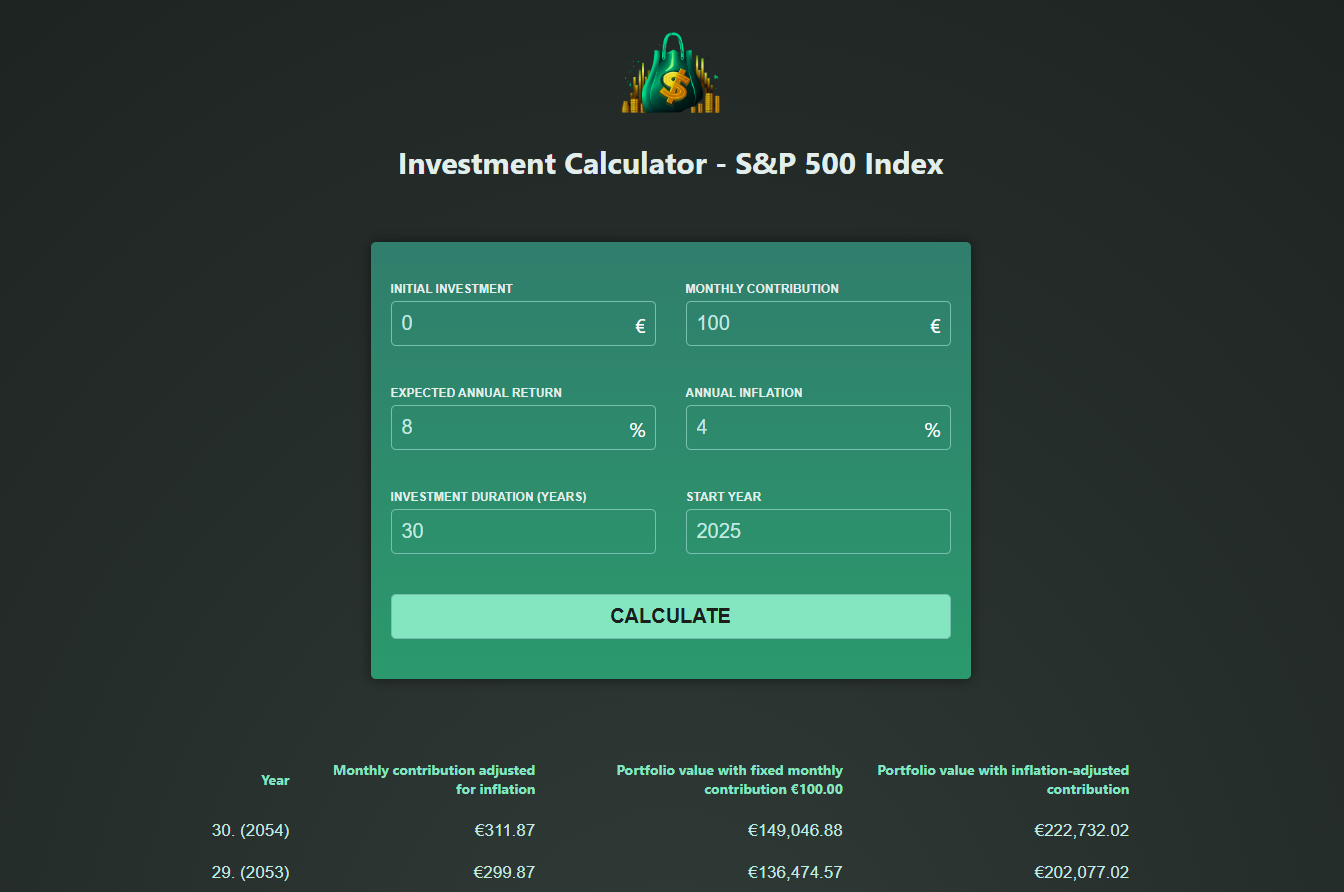
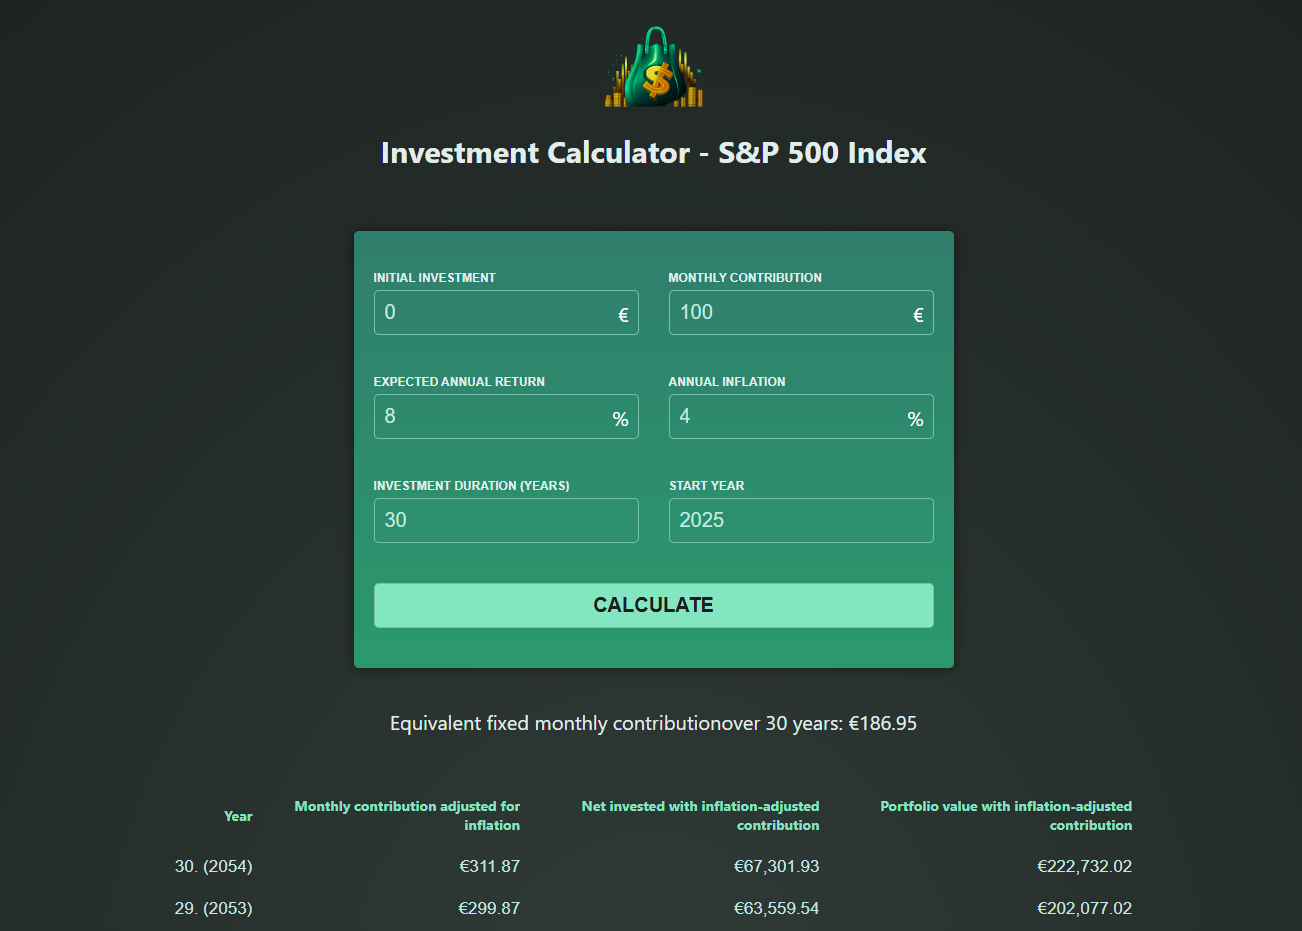
Improve investment view and mobile formatting

diff --git a/src/app/investment.service.ts b/src/app/investment.service.ts
@@ -14,6 +14,7 @@ export class InvestmentService {
     const totalMonths = duration * 12; // Celkový počet mesiacov
     let totalWithoutInflation = initialAmount + 1; // Suma bez inflácie
     let totalWithInflation = initialAmount + 1; // Suma s infláciou
+    let netInvestedWithInflation = initialAmount; // Netto vložené peniaze (s infláciou príspevku)
     let currentAnnualContribution = annualContribution * 12; // Ročný príspevok
     let currentAnnualContributionWithInflation = annualContribution * 12; // Ročný príspevok s infláciou
     const results = []; // Výsledky pre každý rok
@@ -27,6 +28,7 @@ export class InvestmentService {
       // S infláciou: mesačný príspevok sa zvyšuje o infláciu
       totalWithInflation *= (1 + monthlyRate);
       totalWithInflation += currentAnnualContributionWithInflation / 12;
+      netInvestedWithInflation += currentAnnualContributionWithInflation / 12;
 
       // Na konci každého roka vypočítame a uložíme výsledky
       if (month % 12 === 0) {
@@ -35,8 +37,10 @@ export class InvestmentService {
         // Vložíme výsledky do poľa
         results.push({
           year: year,
+          initialAmount: initialAmount,
           totalWithoutInflation: parseFloat(totalWithoutInflation.toFixed(2)), // Suma bez inflácie
           totalWithInflation: parseFloat(totalWithInflation.toFixed(2)),    // Suma s infláciou
+          netInvestedWithInflation: parseFloat(netInvestedWithInflation.toFixed(2)), // Netto vložené peniaze (s infláciou)
           monthlyContribution: parseFloat((currentAnnualContribution / 12).toFixed(2)), // Mesačný príspevok
           monthlyContributionWithInflation: parseFloat((currentAnnualContributionWithInflation / 12).toFixed(2)), // Mesačný príspevok (+inflacia)
           startingYear: startingYear

diff --git a/src/app/investment-results/investment-results.component.html b/src/app/investment-results/investment-results.component.html
@@ -1,12 +1,26 @@
 @if (!results()) {
   <p class="center">Fill out the form and press "Calculate".</p>
 } @else {
+  @if (equivalentFixedMonthlyContribution !== null) {
+    <p class="center equivalent-line">
+      <span>Equivalent fixed monthly contribution</span>
+      <span class="equivalent-over">over {{ results()![0].year }} years: {{ equivalentFixedMonthlyContribution | currency:'EUR':'symbol' }}</span>
+    </p>
+  }
   <table>
     <thead>
     <tr>
       <th>Year</th>
       <th>Monthly contribution adjusted for inflation</th>
-      <th>Portfolio value with fixed monthly contribution {{ fixedMonthlyContribution | currency:'EUR':'symbol' }}</th>
+      <th>
+        <button type="button" class="header-toggle" (click)="toggleFixedContributionColumn()">
+          @if (showNetInvested()) {
+            Net invested with inflation-adjusted contribution
+          } @else {
+            Portfolio value with fixed monthly contribution {{ fixedMonthlyContribution | currency:'EUR':'symbol' }}
+          }
+        </button>
+      </th>
       <th>Portfolio value with inflation-adjusted contribution</th>
     </tr>
     </thead>
@@ -15,7 +29,13 @@
         <tr>
           <td class="no-wrap">{{ result.year }}. ({{ result.startingYear + result.year - 1 }})</td>
           <td> {{ result.monthlyContributionWithInflation | currency:'EUR':'symbol' }} </td>
-          <td> {{ result.totalWithoutInflation | currency:'EUR':'symbol' }} </td>
+          <td>
+            @if (showNetInvested()) {
+              {{ result.netInvestedWithInflation | currency:'EUR':'symbol' }}
+            } @else {
+              {{ result.totalWithoutInflation | currency:'EUR':'symbol' }}
+            }
+          </td>
           <td> {{ result.totalWithInflation | currency:'EUR':'symbol' }} </td>
         </tr>
       }

diff --git a/src/app/investment-results/investment-results.component.ts b/src/app/investment-results/investment-results.component.ts
@@ -1,4 +1,4 @@
-import {Component, inject} from '@angular/core';
+import {Component, inject, signal} from '@angular/core';
 import {CurrencyPipe} from "@angular/common";
 import {InvestmentService} from "../investment.service";
 
@@ -10,11 +10,31 @@ import {InvestmentService} from "../investment.service";
 })
 export class InvestmentResultsComponent {
   private investmentService = inject(InvestmentService);
+  showNetInvested = signal(true);
 
   results = this.investmentService.resultData.asReadonly();
 
   get fixedMonthlyContribution(): number | null {
     const res = this.results();
     return res && res.length > 0 ? res[0].monthlyContribution : null;
+  }
+
+  get equivalentFixedMonthlyContribution(): number | null {
+    const res = this.results();
+    if (!res || res.length === 0) {
+      return null;
+    }
+
+    const latest = res[0];
+    const months = latest.year * 12;
+    if (months <= 0) {
+      return null;
+    }
+
+    return (latest.netInvestedWithInflation - latest.initialAmount) / months;
+  }
+
+  toggleFixedContributionColumn() {
+    this.showNetInvested.update((value) => !value);
   }
 }

diff --git a/src/app/investment-results/investment-results.component.css b/src/app/investment-results/investment-results.component.css
@@ -11,6 +11,18 @@ table thead {
   color: #83e6c0;
 }
 
+.header-toggle {
+  all: unset;
+  cursor: pointer;
+  color: inherit;
+  text-align: right;
+}
+
+.header-toggle:focus-visible {
+  outline: 1px solid #83e6c0;
+  outline-offset: 2px;
+}
+
 table tbody {
   font-family: "Roboto Condensed", sans-serif;
   font-size: 0.85rem;
@@ -19,4 +31,14 @@ table tbody {
 
 .no-wrap {
   white-space: nowrap;
+}
+
+@media (max-width: 600px) {
+  .equivalent-line span {
+    display: block;
+  }
+
+  .equivalent-over {
+    white-space: nowrap;
+  }
 }

diff --git a/src/app/investment-result.model.ts b/src/app/investment-result.model.ts
@@ -1,7 +1,9 @@
 export interface InvestmentResultModel {
   year: number; // Rok
+  initialAmount: number; // Počiatočná suma
   totalWithoutInflation: number; // Suma bez inflácie
   totalWithInflation: number; // Suma s infláciou
+  netInvestedWithInflation: number; // Netto vložené peniaze (príspevok + inflácia)
   monthlyContribution: number; // Mesačný príspevok
   monthlyContributionWithInflation: number; // Mesačný príspevok (+inflacia)
   startingYear: number; // Rok začiatku napr. 2025

diff --git a/README.md b/README.md
@@ -12,5 +12,5 @@ npm start
 ```
 
 <p>
-<img src="img/1.png" width="600"/>
+<img src="img/1.png" width="600" alt="img"/>
 </p>
